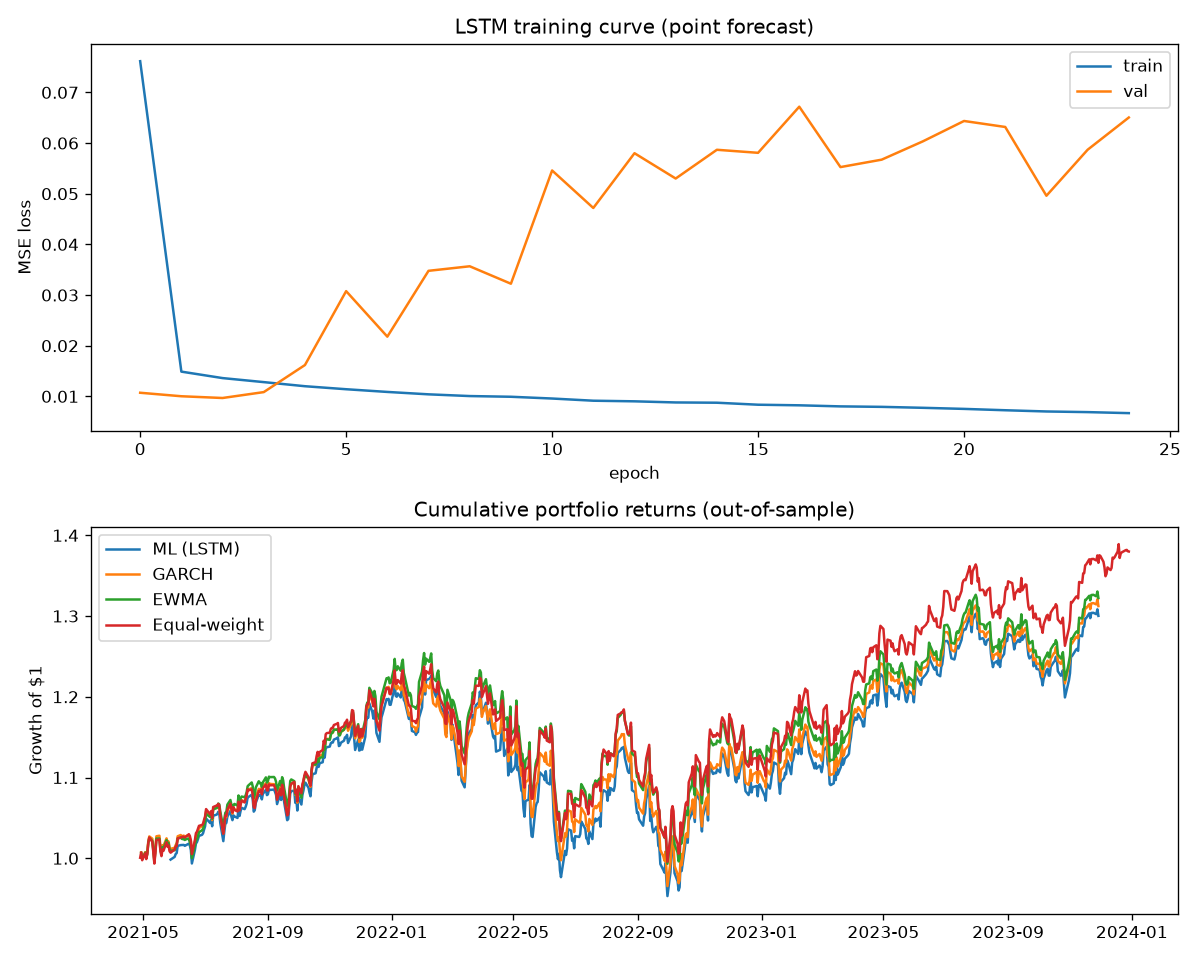
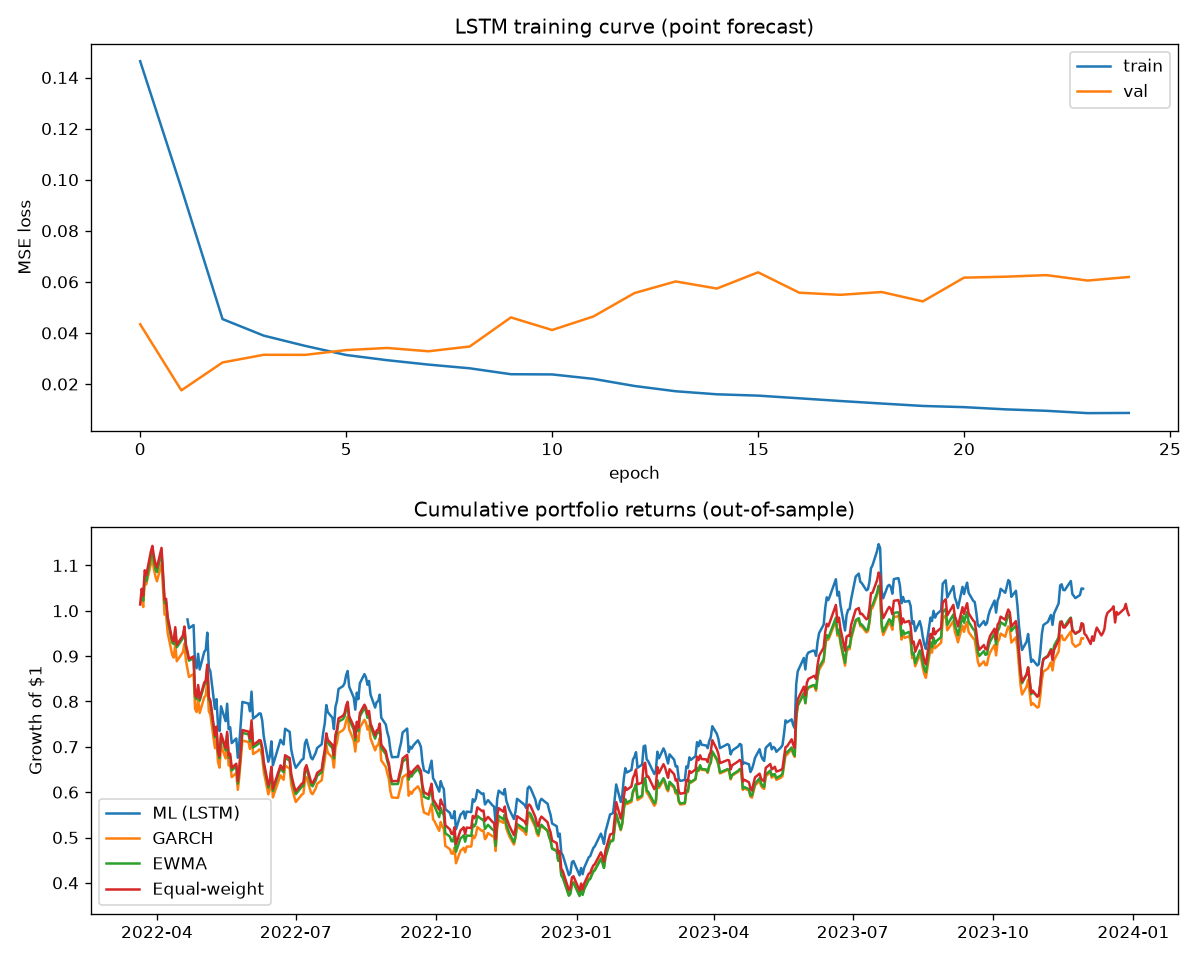
Add per-ticker volatility plots and per-ticker accuracy breakdown

diff --git a/main.py b/main.py
@@ -34,6 +34,55 @@ from evaluate import compare_forecasts, var_calibration
 warnings.filterwarnings("ignore")
 
 
+def plot_per_ticker(merged, prices, tickers, split_date, out_dir):
+    """
+    For each ticker, save a two-panel chart:
+      - top: the stock's own price performance during the test window
+      - bottom: each model's forward-volatility forecast vs. what actually
+        happened (the realized volatility), over time
+
+    This is the "look at one company specifically" view -- useful when you
+    care about a stock's own risk profile rather than a multi-asset
+    portfolio decision.
+    """
+    saved = []
+    for ticker in tickers:
+        if ticker not in prices.columns:
+            continue
+        g = merged[merged["ticker"] == ticker].sort_index()
+        if g.empty:
+            continue
+
+        fig, axes = plt.subplots(2, 1, figsize=(10, 8))
+
+        test_prices = prices.loc[prices.index > split_date, ticker].dropna()
+        if len(test_prices) > 0:
+            norm = test_prices / test_prices.iloc[0]
+            axes[0].plot(norm.index, norm.values, color="black")
+        axes[0].set_title(f"{ticker}: price performance (out-of-sample)")
+        axes[0].set_ylabel("Growth of $1")
+        axes[0].axhline(1.0, color="gray", linewidth=0.8, linestyle="--")
+
+        axes[1].plot(g.index, g["target_fwd_rvol"], label="Realized (actual)",
+                     color="black", linewidth=2)
+        for col, label in [("ewma_fwd_rvol", "EWMA"), ("garch_fwd_rvol", "GARCH"),
+                           ("ml_pred", "LSTM")]:
+            if col in g.columns and g[col].notna().any():
+                axes[1].plot(g.index, g[col], label=label, alpha=0.85)
+        axes[1].set_title(f"{ticker}: forward volatility forecasts vs. realized")
+        axes[1].set_ylabel("Annualized volatility")
+        axes[1].legend()
+
+        fig.tight_layout()
+        fname = f"{out_dir}/{ticker}_volatility.png"
+        fig.savefig(fname, dpi=120)
+        plt.close(fig)
+        saved.append(fname)
+        print(f"Saved per-ticker plot to {fname}")
+
+    return saved
+
+
 def run(tickers, demo, start, end, train_frac=0.7, out_dir="."):
     print(f"\n=== Loading data ({'synthetic demo' if demo else 'real via yfinance'}) ===")
     if demo:
@@ -78,9 +127,15 @@ def run(tickers, demo, start, end, train_frac=0.7, out_dir="."):
     merged = merged.merge(baseline_fc.reset_index().rename(columns={"index": "date"}), on=["date", "ticker"], how="left")
     merged = merged.set_index("date")
 
-    print("\n=== Forecast accuracy: ML vs GARCH vs EWMA ===")
+    print("\n=== Forecast accuracy: ML vs GARCH vs EWMA (all tickers combined) ===")
     leaderboard = compare_forecasts(merged, forecast_cols=("ewma_fwd_rvol", "garch_fwd_rvol", "ml_pred"))
     print(leaderboard.to_string(index=False))
+
+    print("\n=== Forecast accuracy per ticker ===")
+    for ticker, g in merged.groupby("ticker"):
+        per_ticker_board = compare_forecasts(g, forecast_cols=("ewma_fwd_rvol", "garch_fwd_rvol", "ml_pred"))
+        print(f"\n  -- {ticker} --")
+        print("  " + per_ticker_board.to_string(index=False).replace("\n", "\n  "))
 
     print("\n=== VaR calibration (5% return-quantile model) ===")
     # Compare against target_next_return -- the *exact* quantity the quantile
@@ -145,7 +200,10 @@ def run(tickers, demo, start, end, train_frac=0.7, out_dir="."):
     leaderboard.to_csv(f"{out_dir}/forecast_leaderboard.csv", index=False)
     print(f"Saved leaderboard to {out_dir}/forecast_leaderboard.csv")
 
-    return leaderboard, results
+    print("\n=== Saving per-ticker volatility plots ===")
+    per_ticker_plots = plot_per_ticker(merged, prices, tickers, split_date, out_dir)
+
+    return leaderboard, results, per_ticker_plots
 
 
 if __name__ == "__main__":
